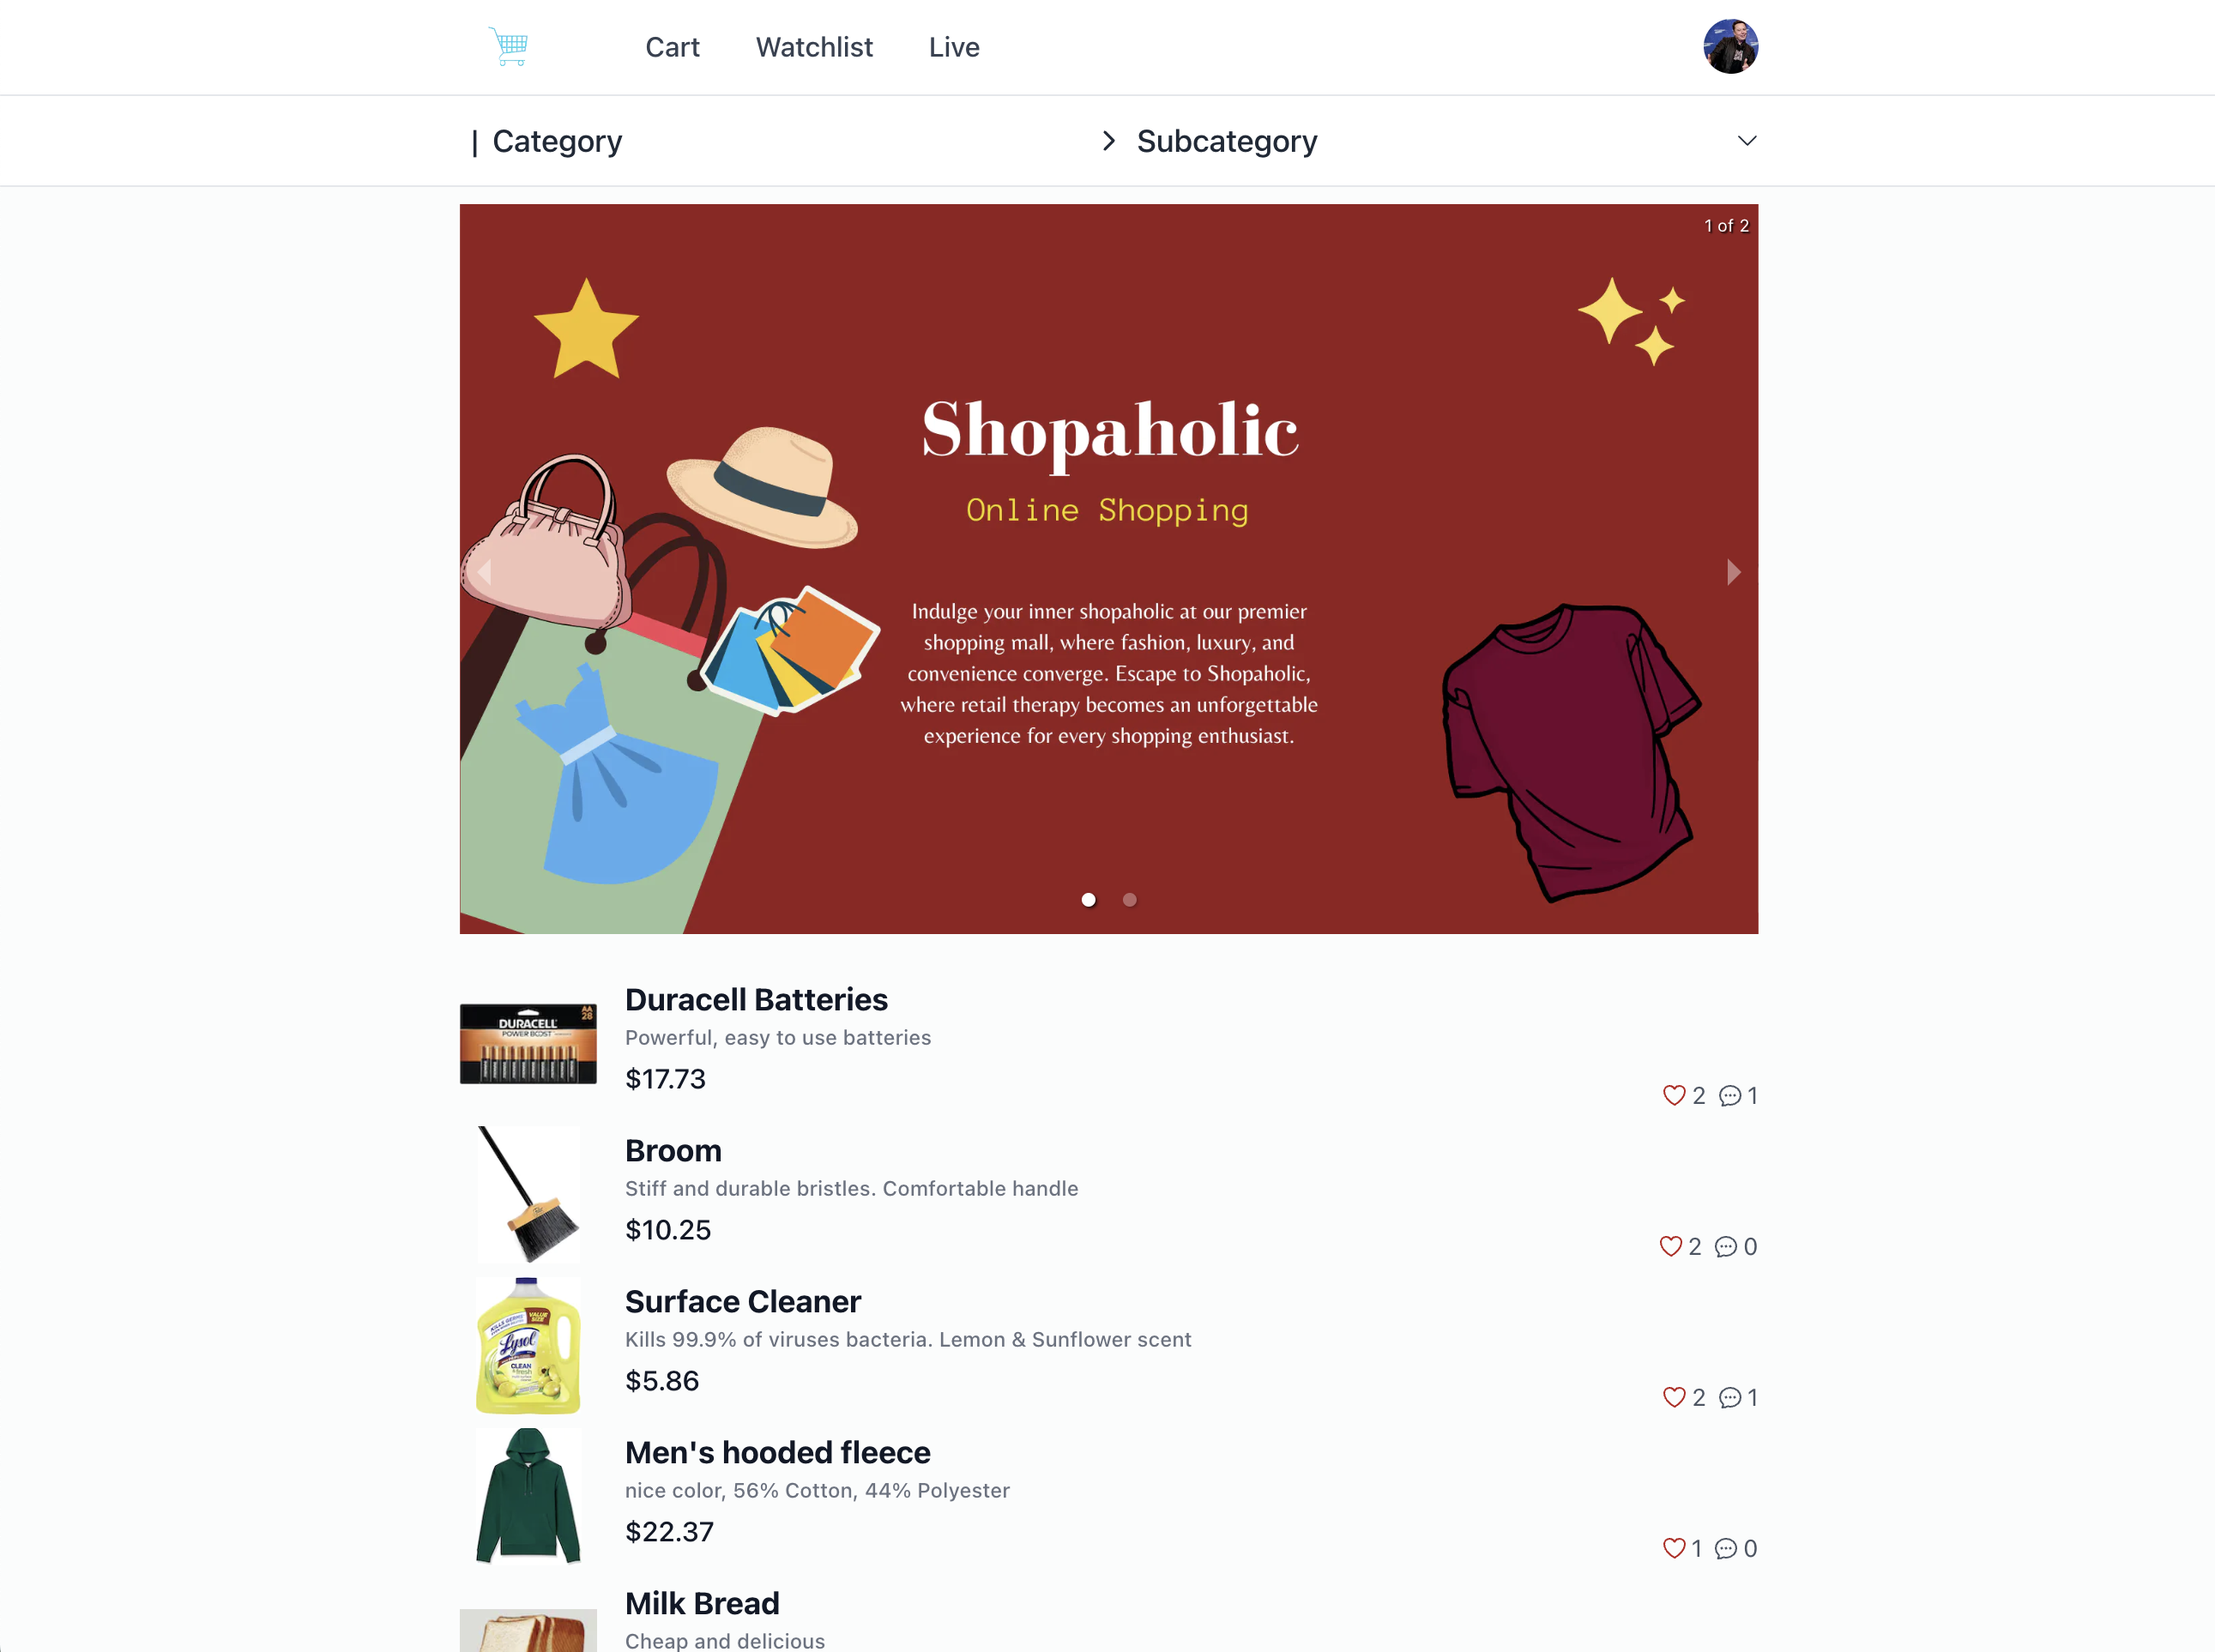
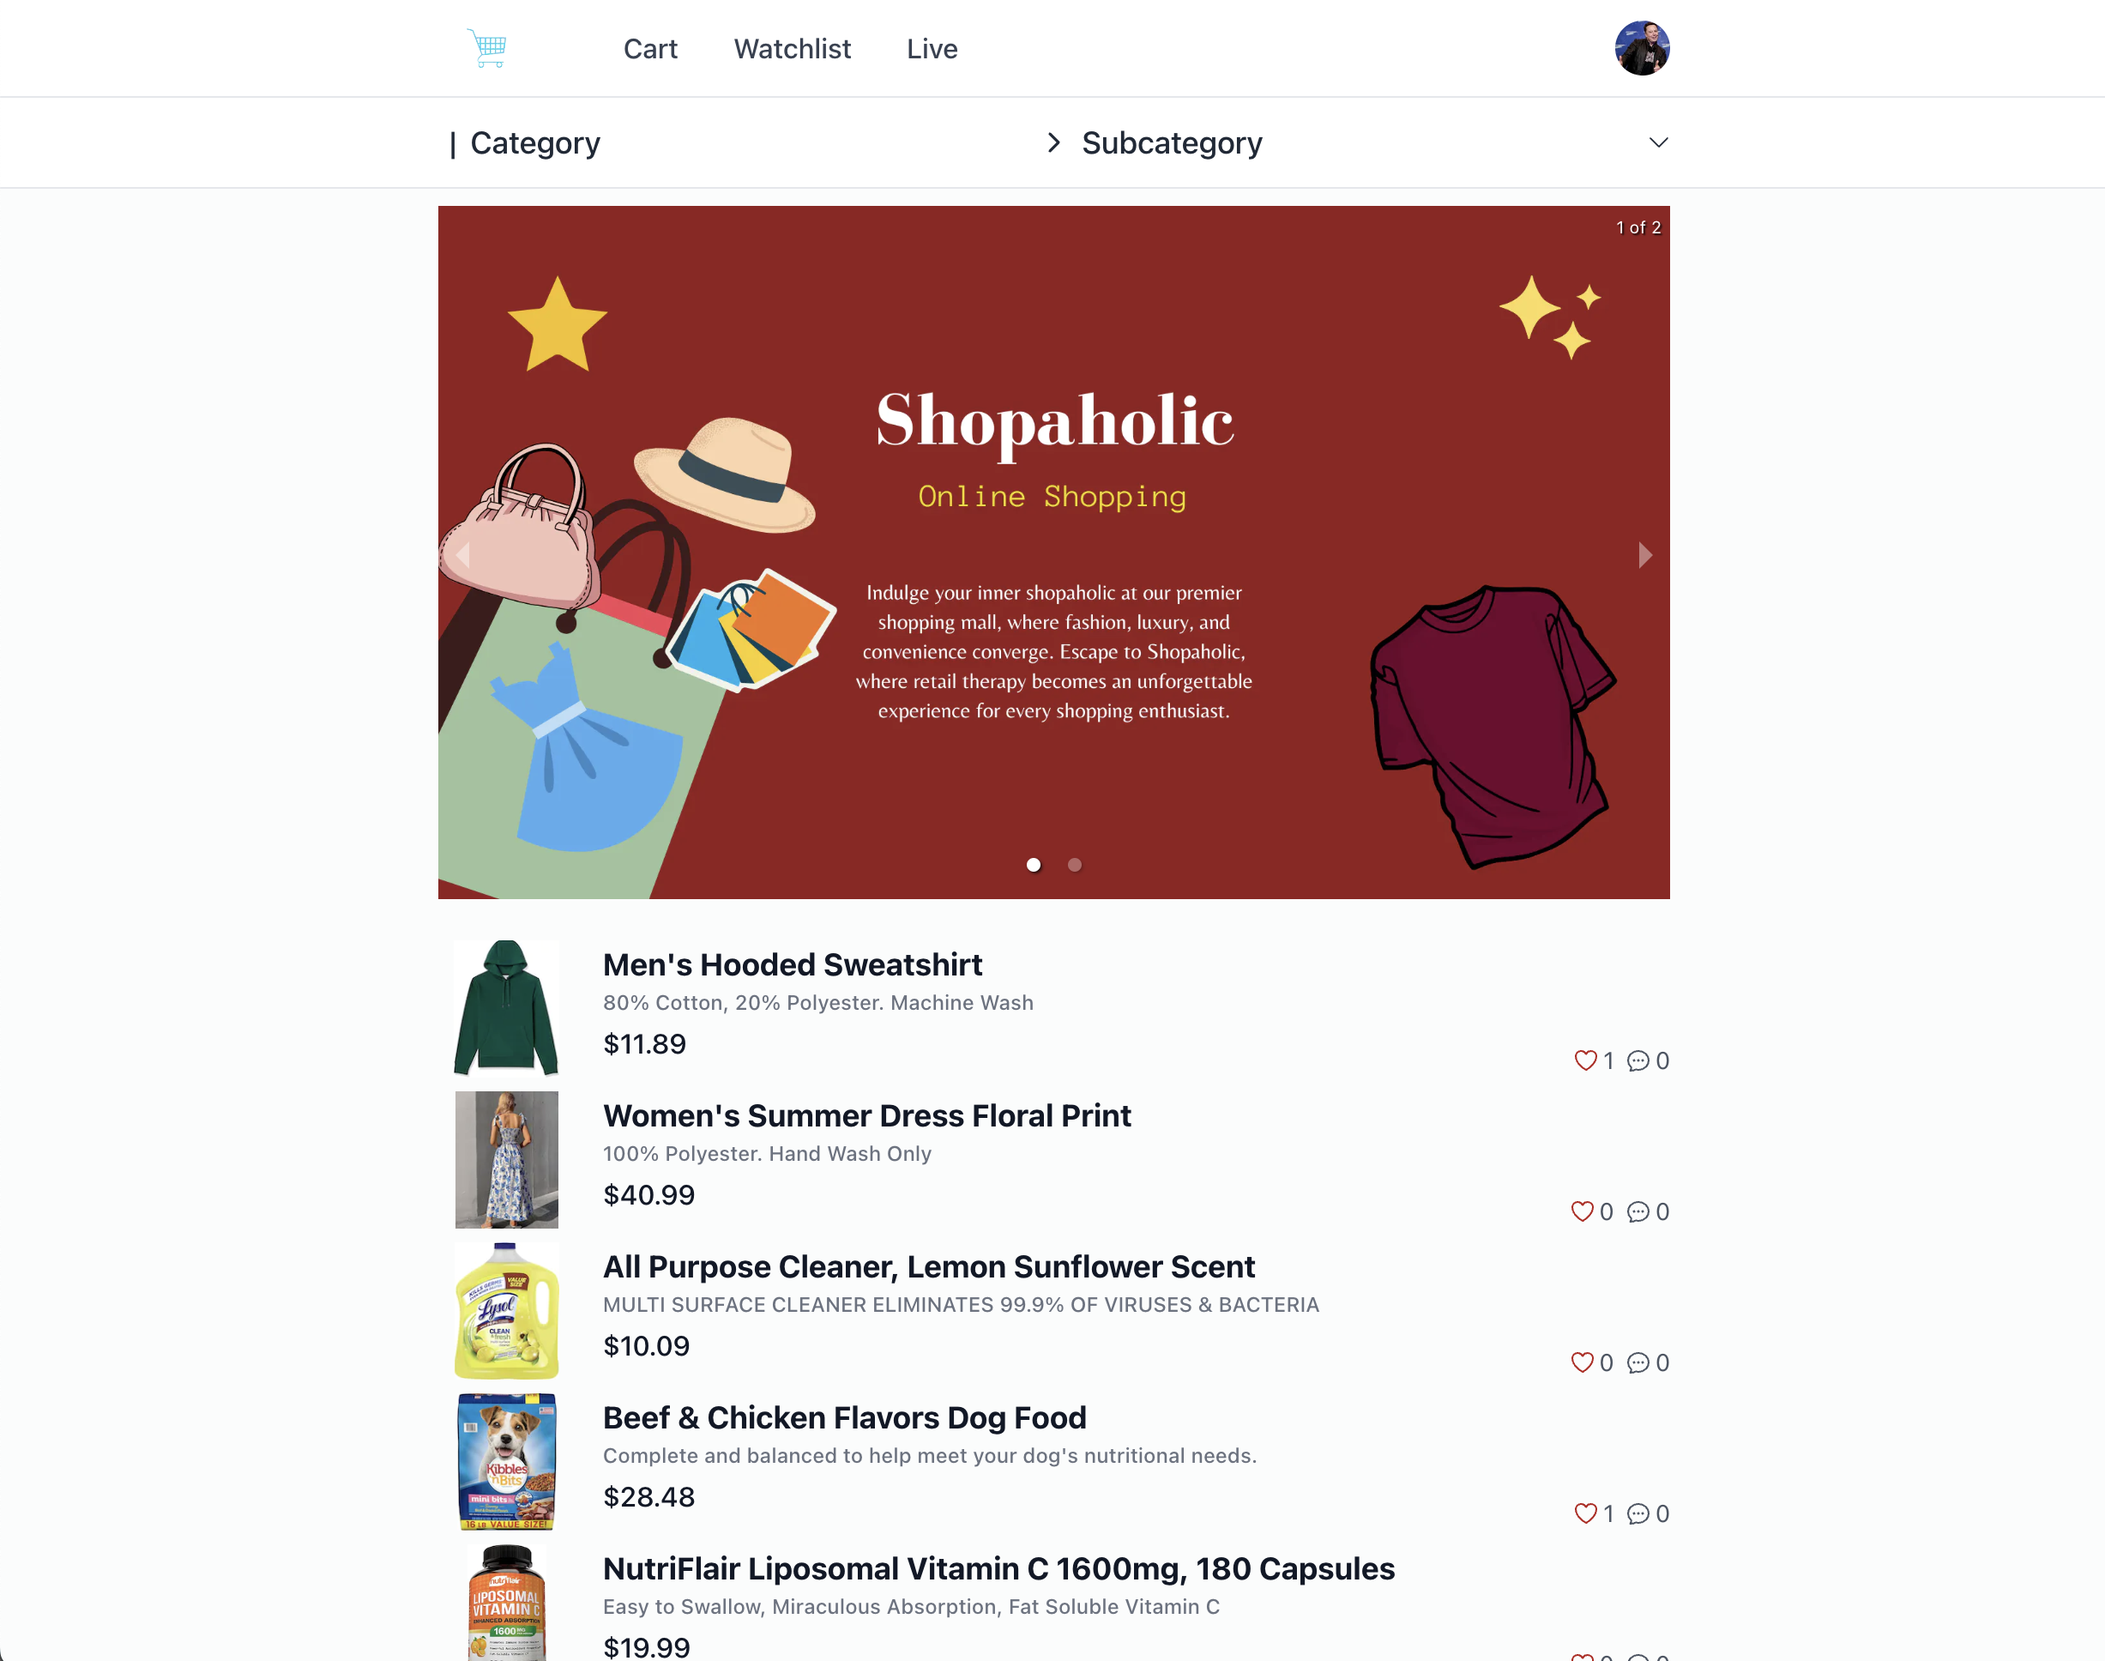
shopaholic 정보 추가 중

diff --git a/src/pages/Shopaholic.tsx b/src/pages/Shopaholic.tsx
@@ -4,7 +4,8 @@ import { useTranslation } from 'react-i18next';
 import Header from '../components/Header';
 import Footer from '../components/Footer';
 import { openInNewTab } from '../utils/common';
-import ImgUrl from '../assets/shopaholic.png';
+import ShopaholicMain from '../assets/shopaholic.png';
+import ShopaholicItem from '../assets/shopaholic_item.png';
 import ImageBox from '../components/ImageBox';
 import { IImageArray } from '../types/types';
 
@@ -27,12 +28,12 @@ function Shopaholic() {
   const images: IImageArray[] = useMemo(() => {
     return [
       {
-        imgUrl: ImgUrl,
-        title: 'a'
+        imgUrl: ShopaholicMain,
+        title: 'Main Page'
       },
       {
-        imgUrl: ImgUrl,
-        title: 'b'
+        imgUrl: ShopaholicItem,
+        title: 'Item Page ( Mobile )'
       }
     ];
   }, []);
@@ -55,7 +56,7 @@ function Shopaholic() {
         {
           //* Features
         }
-        <div className="mt-2">
+        <div className="mt-4">
           <p className="font-bold text-xl">{t('SHOPAHOLIC_FEATURES')}</p>
           <div className="mt-2">
             <ul className="font-sans">
@@ -75,7 +76,7 @@ function Shopaholic() {
         {
           //* 기술 스택
         }
-        <div className="mt-2">
+        <div className="mt-4">
           <p className="font-bold text-xl">{t('SHOPAHOLIC_TECH')}</p>
           <div className="mt-2">
             <ul className="font-sans">
@@ -92,7 +93,7 @@ function Shopaholic() {
             </ul>
           </div>
         </div>
-        <div className="mt-2">
+        <div className="mt-4">
           <p className="font-bold text-xl">Github Repository</p>
           <div className="mt-2">
             <ul>
@@ -108,7 +109,7 @@ function Shopaholic() {
             </ul>
           </div>
         </div>
-        <div className="mt-2 mb-6">
+        <div className="mt-4 mb-6">
           <p className="font-bold text-xl">{t('SHOPAHOLIC_VIDEO')}</p>
           <div className="mt-2">
             <ul className="font-sans">

diff --git a/src/components/ImageBox.tsx b/src/components/ImageBox.tsx
@@ -8,11 +8,24 @@ type ImageBoxProps = {
 
 function ImageBox({ images }: ImageBoxProps) {
   return (
-    <Carousel showArrows infiniteLoop swipeable emulateTouch showThumbs={false}>
+    <Carousel
+      showArrows
+      infiniteLoop
+      swipeable
+      emulateTouch
+      showThumbs={false}
+      dynamicHeight={false}
+    >
       {images.map((elt) => {
         return (
           <div key={elt.title}>
-            <img src={elt.imgUrl} alt={elt.title} />
+            <div className="max-h-screen">
+              <img
+                className="aspect-[4/3] object-contain"
+                src={elt.imgUrl}
+                alt={elt.title}
+              />
+            </div>
             <p className="legend">{elt.title}</p>
           </div>
         );

diff --git a/tailwind.config.js b/tailwind.config.js
@@ -3,7 +3,13 @@ module.exports = {
   content: [
     "./src/**/*.{js,jsx,ts,tsx}"
   ],
-  theme: {},
+  theme: {
+    extend: {
+      aspectRatio: {
+        "4/3": "4 / 3",
+      }
+    }
+  },
   plugins: [
     require("@tailwindcss/typography"),
     require("daisyui")
